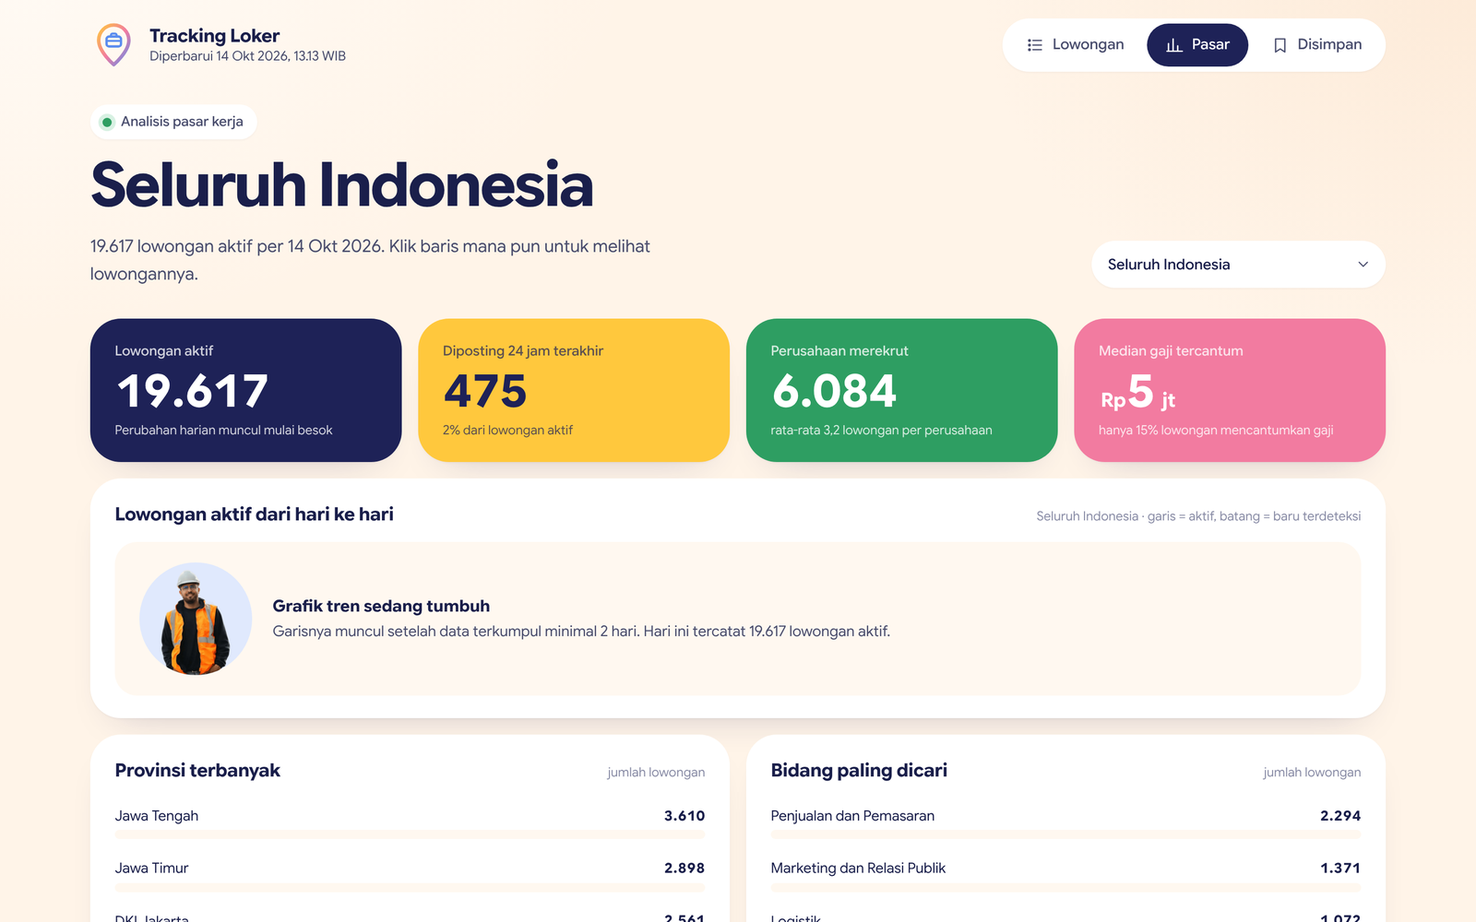
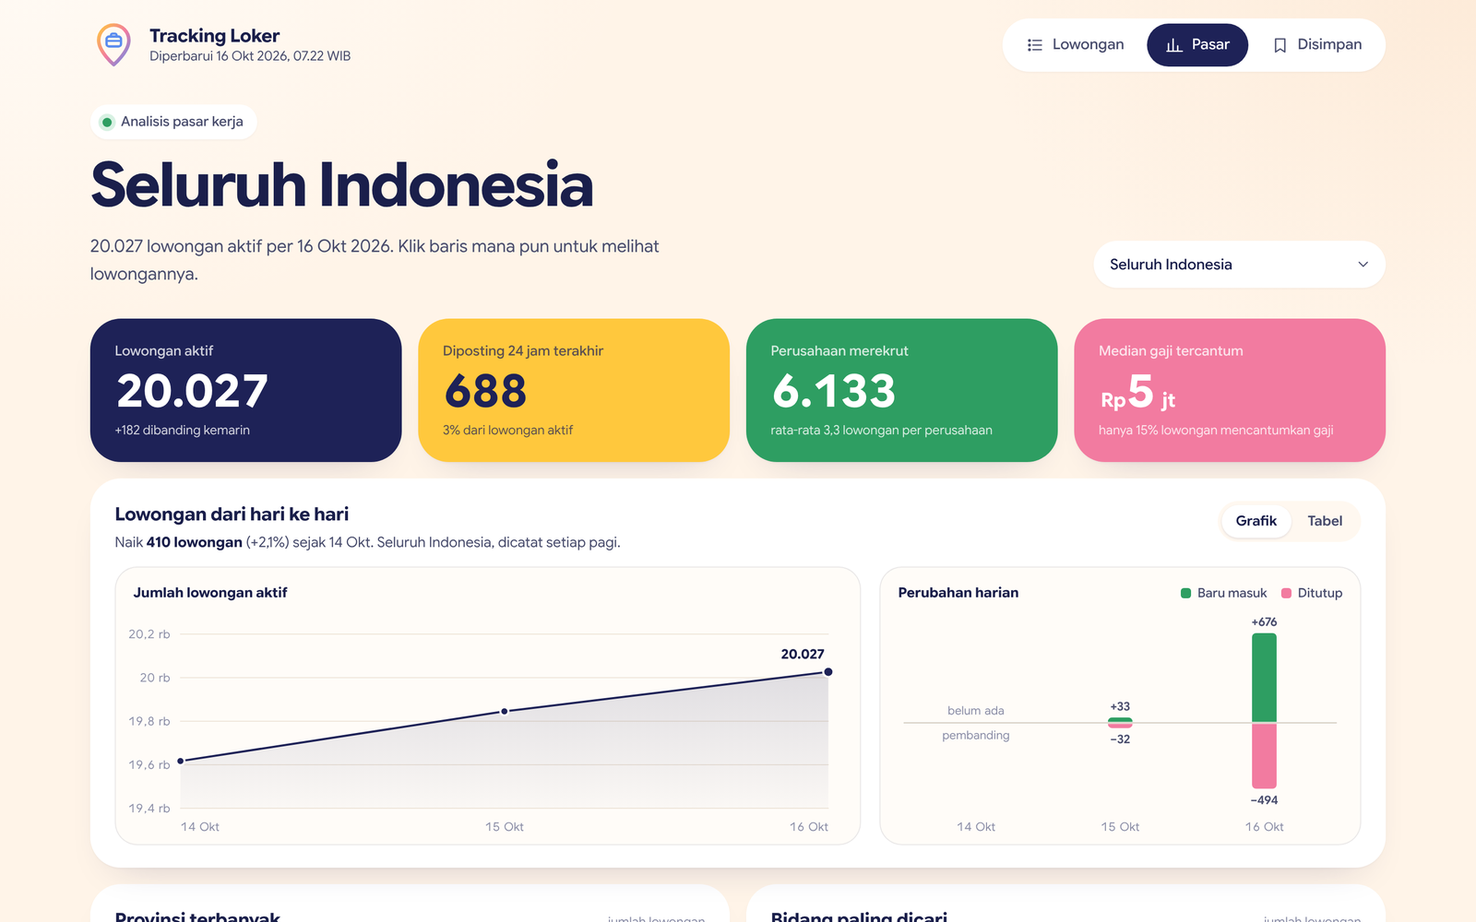
Add files via upload

diff --git a/app.js b/app.js
@@ -400,7 +400,22 @@ function renderPasar() {
     <div class="tile kpi green"><span class="kpi-label">Perusahaan merekrut</span><span class="kpi-value">${ribu(s.companies)}</span><span class="tile-sub">rata-rata ${(s.total / Math.max(1, s.companies)).toFixed(1).replace('.', ',')} lowongan per perusahaan</span></div>
     <div class="tile kpi pink"><span class="kpi-label">Median gaji tercantum</span><span class="kpi-value">${s.medianPay ? `<small>Rp</small>${juta(s.medianPay).replace(' jt', '<small> jt</small>')}` : '–'}</span><span class="tile-sub">hanya ${s.salariedPct}% lowongan mencantumkan gaji</span></div>
 
-    <div class="tile wide trend"><div class="tile-head"><span class="tile-title">Lowongan aktif dari hari ke hari</span><span class="tile-sub">Seluruh Indonesia · garis = aktif, batang = baru terdeteksi</span></div><div id="trend"></div></div>
+    <div class="tile wide trend">
+      <div class="tile-head trend-head">
+        <div><span class="tile-title">Lowongan dari hari ke hari</span><p class="trend-sum" id="trend-sum"></p></div>
+        <div class="trend-ctrl">
+        <div class="seg" id="trend-range" role="group" aria-label="Rentang waktu" hidden>
+          <button type="button" class="on" data-trend-range="30" aria-pressed="true">30 hari</button>
+          <button type="button" data-trend-range="0" aria-pressed="false">Semua</button>
+        </div>
+        <div class="seg" role="group" aria-label="Tampilan tren">
+          <button type="button" class="on" data-trend-view="chart" aria-pressed="true">Grafik</button>
+          <button type="button" data-trend-view="table" aria-pressed="false">Tabel</button>
+        </div>
+        </div>
+      </div>
+      <div id="trend"></div>
+    </div>
 
     <div class="tile" data-tone="blue"><div class="tile-head"><span class="tile-title">${scopeProv ? 'Kota/kabupaten terbanyak' : 'Provinsi terbanyak'}</span><span class="tile-sub">jumlah lowongan</span></div>${barsHTML(where)}</div>
     <div class="tile" data-tone="green"><div class="tile-head"><span class="tile-title">Bidang paling dicari</span><span class="tile-sub">jumlah lowongan</span></div>${barsHTML(fns)}</div>
@@ -453,46 +468,229 @@ function stackHTML(rows, total, kind) {
     <div class="legend">${segs.map((s) => `<button type="button" data-stack="${kind}" data-value="${esc(s.name)}"><i style="background:${s.color}"></i>${esc(s.name)} <b>${pct(s.n, total)}</b></button>`).join('')}</div>`;
 }
 
+const BULAN_PENDEK = ['Jan', 'Feb', 'Mar', 'Apr', 'Mei', 'Jun', 'Jul', 'Agu', 'Sep', 'Okt', 'Nov', 'Des'];
+const tgl = (d, year = false) => { const [y, m, dd] = d.split('-'); return `${+dd} ${BULAN_PENDEK[+m - 1]}${year ? ` ${y}` : ''}`; };
+const signed = (n) => (n > 0 ? `+${ribu(n)}` : n < 0 ? `−${ribu(-n)}` : '0');
+const C_LINE = '#1E2257';
+const C_NEW = '#2E9E62';
+const C_CLOSED = '#F27BA0';
+
+// Skala sumbu Y yang bulat: kelipatan 1, 2, 5 × 10^n, dan batas bawah/atas ikut jatuh di garis bantu.
+function yScale(min, max, count = 4) {
+  const span = Math.max(max - min, max * 0.01, 10);
+  const raw = span * 1.4 / count;
+  const mag = 10 ** Math.floor(Math.log10(raw));
+  const step = [1, 2, 5, 10].map((k) => k * mag).find((v) => v >= raw);
+  const lo = Math.floor((min - span * 0.2) / step) * step;
+  const hi = Math.ceil((max + span * 0.2) / step) * step;
+  const ticks = [];
+  for (let v = lo; v <= hi + step / 2; v += step) ticks.push(Math.round(v));
+  return { lo, hi, ticks, step };
+}
+function tickText(v, step) {
+  if (step < 10) return ribu(v);
+  const dec = step >= 1000 ? 0 : step >= 100 ? 1 : 2;
+  return `${(v / 1000).toFixed(dec).replace(/(\.\d*?)0+$/, '$1').replace(/\.$/, '').replace('.', ',')} rb`;
+}
+// Label tanggal dihitung mundur dari hari terakhir supaya tanggal terbaru selalu tampil dan jaraknya rata.
+function dateMarks(n, width) {
+  const every = Math.max(1, Math.ceil(n / Math.max(2, Math.floor(width / 64))));
+  const out = [];
+  for (let i = n - 1; i >= 0; i -= every) out.push(i);
+  return out;
+}
+
+state.trendView = 'chart';
+state.trendRange = 30;
+
 function renderTrend() {
   const box = $('#trend');
   if (!box) return;
-  const days = state.days.filter((d) => d.active);
-  if (days.length < 2) {
-    box.innerHTML = `<div class="trend-empty">${emptyArt('foto-tambang.webp', 'blue')}<div><b>Grafik tren sedang tumbuh</b>Garisnya muncul setelah data terkumpul minimal 2 hari. Hari ini tercatat ${ribu(days[0]?.active || state.all.length)} lowongan aktif.</div></div>`;
+  const all = state.days.filter((d) => d.active);
+  const sum = $('#trend-sum');
+  const ranges = $('#trend-range');
+  if (all.length < 2) {
+    if (sum) sum.textContent = 'Seluruh Indonesia';
+    if (ranges) ranges.hidden = true;
+    box.innerHTML = `<div class="trend-empty">${emptyArt('foto-tambang.webp', 'blue')}<div><b>Grafik tren sedang tumbuh</b>Garisnya muncul setelah data terkumpul minimal 2 hari. Hari ini tercatat ${ribu(all[0]?.active || state.all.length)} lowongan aktif.</div></div>`;
     return;
   }
-  const W = Math.max(280, box.clientWidth);
-  const H = 200;
-  const pad = { l: 8, r: 8, t: 22, b: 24 };
+  const long = all.length > 30;
+  if (ranges) ranges.hidden = !long;
+  const days = long && state.trendRange ? all.slice(-state.trendRange) : all;
+  const first = days[0];
+  const last = days[days.length - 1];
+  const diff = last.active - first.active;
+  const pctTxt = `${(Math.abs(diff) / first.active * 100).toFixed(1).replace('.', ',')}%`;
+  if (sum) {
+    sum.innerHTML = diff === 0
+      ? `Stabil di <b>${ribu(last.active)}</b> lowongan sejak ${tgl(first.d)}. Seluruh Indonesia, dicatat setiap pagi.`
+      : `${diff > 0 ? 'Naik' : 'Turun'} <b>${ribu(Math.abs(diff))} lowongan</b> (${diff > 0 ? '+' : '−'}${pctTxt}) sejak ${tgl(first.d)}. Seluruh Indonesia, dicatat setiap pagi.`;
+  }
+  for (const b of document.querySelectorAll('[data-trend-view]')) {
+    const on = b.dataset.trendView === state.trendView;
+    b.classList.toggle('on', on);
+    b.setAttribute('aria-pressed', on);
+  }
+  for (const b of document.querySelectorAll('[data-trend-range]')) {
+    const on = +b.dataset.trendRange === state.trendRange;
+    b.classList.toggle('on', on);
+    b.setAttribute('aria-pressed', on);
+  }
+
+  if (state.trendView === 'table') {
+    const rows = days.slice().reverse();
+    box.innerHTML = `<div class="trend-table-wrap"><div class="trend-table-scroll"><table class="trend-table">
+      <thead><tr><th>Tanggal</th><th>Lowongan aktif</th><th>Baru masuk</th><th>Ditutup</th><th>Selisih</th></tr></thead>
+      <tbody>${rows.map((d, i) => {
+        const prev = rows[i + 1] || all[all.indexOf(d) - 1];
+        return `<tr><td>${tgl(d.d, true)}</td><td>${ribu(d.active)}</td><td>${d.new == null ? '–' : `+${ribu(d.new)}`}</td><td>${d.closed == null ? '–' : `−${ribu(d.closed)}`}</td><td>${prev ? signed(d.active - prev.active) : '–'}</td></tr>`;
+      }).join('')}</tbody></table></div>
+      <p class="note">Baru masuk = lowongan yang belum ada di catatan sebelumnya. Ditutup = lowongan yang sudah hilang atau lewat batas waktu. Hari pertama belum punya pembanding.</p></div>`;
+    return;
+  }
+
+  box.innerHTML = `<div class="trend-grid">
+      <figure class="trend-panel" id="tp-line"><figcaption><span>Jumlah lowongan aktif</span></figcaption><div class="trend-plot"></div></figure>
+      <figure class="trend-panel" id="tp-bars"><figcaption><span>Perubahan harian</span>
+        <span class="legend-mini"><i style="background:${C_NEW}"></i>Baru masuk<i style="background:${C_CLOSED}"></i>Ditutup</span></figcaption><div class="trend-plot"></div></figure>
+    </div><div class="trend-tip" role="status" aria-live="polite" hidden></div>`;
+  drawLine(days, $('#tp-line .trend-plot'));
+  drawBars(days, $('#tp-bars .trend-plot'));
+}
+
+function trendTip(d, x, y, host) {
+  const tip = $('#trend .trend-tip');
+  if (!tip) return;
+  if (!d) { tip.hidden = true; return; }
+  tip.innerHTML = `<span class="tip-date">${tgl(d.d, true)}</span>
+    <span><b>${ribu(d.active)}</b> lowongan aktif</span>
+    ${d.new == null ? '<span class="tip-muted">Hari pertama pencatatan</span>'
+      : `<span><i style="background:${C_NEW}"></i>+${ribu(d.new)} baru masuk</span><span><i style="background:${C_CLOSED}"></i>−${ribu(d.closed)} ditutup</span>`}`;
+  tip.hidden = false;
+  const box = $('#trend').getBoundingClientRect();
+  const r = host.getBoundingClientRect();
+  let left = r.left - box.left + x + 16;
+  if (left + tip.offsetWidth > box.width) left = r.left - box.left + x - tip.offsetWidth - 16;
+  tip.style.left = `${Math.max(0, left)}px`;
+  tip.style.top = `${Math.max(0, r.top - box.top + y - tip.offsetHeight / 2)}px`;
+}
+
+// Satu lapisan sentuh untuk seluruh area grafik: arahkan kursor/jari ke mana saja, hari terdekat yang aktif.
+function hoverLayer(svg, host, n, W, H, indexAt, onShow, onHide) {
+  let cur = n - 1;
+  const show = (i) => {
+    cur = Math.max(0, Math.min(n - 1, i));
+    const [px, py] = onShow(cur);
+    trendTip(state.trendDays[cur], px * host.clientWidth / W, py * host.clientHeight / H, host);
+  };
+  const hide = () => { onHide(); trendTip(null); };
+  svg.addEventListener('pointermove', (e) => {
+    const r = svg.getBoundingClientRect();
+    show(indexAt((e.clientX - r.left) * W / r.width));
+  });
+  svg.addEventListener('pointerdown', (e) => {
+    const r = svg.getBoundingClientRect();
+    show(indexAt((e.clientX - r.left) * W / r.width));
+  });
+  svg.addEventListener('pointerleave', hide);
+  svg.addEventListener('focus', () => show(cur));
+  svg.addEventListener('blur', hide);
+  svg.addEventListener('keydown', (e) => {
+    if (e.key === 'ArrowLeft') { e.preventDefault(); show(cur - 1); }
+    if (e.key === 'ArrowRight') { e.preventDefault(); show(cur + 1); }
+    if (e.key === 'Escape') hide();
+  });
+}
+
+function drawLine(days, host) {
+  state.trendDays = days;
+  const W = Math.max(260, host.clientWidth);
+  const H = 230;
+  const pad = { l: 50, r: 18, t: 30, b: 30 };
   const vals = days.map((d) => d.active);
-  const lo = Math.min(...vals) * 0.97;
-  const hi = Math.max(...vals) * 1.01;
-  const step = (W - pad.l - pad.r) / (days.length - 1);
-  const x = (i) => pad.l + i * step;
-  const y = (v) => pad.t + (1 - (v - lo) / (hi - lo || 1)) * (H - pad.t - pad.b);
-  const news = days.map((d) => d.new || 0);
-  const maxNew = Math.max(1, ...news);
-  const barW = Math.max(3, Math.min(18, step * 0.5));
-  const line = days.map((d, i) => `${i ? 'L' : 'M'}${x(i).toFixed(1)},${y(d.active).toFixed(1)}`).join('');
-  const area = `${line}L${x(days.length - 1).toFixed(1)},${H - pad.b}L${x(0).toFixed(1)},${H - pad.b}Z`;
-  const bars = days.map((d, i) => {
-    const h = ((d.new || 0) / maxNew) * (H - pad.t - pad.b) * 0.35;
-    return `<rect x="${(x(i) - barW / 2).toFixed(1)}" y="${(H - pad.b - h).toFixed(1)}" width="${barW.toFixed(1)}" height="${h.toFixed(1)}" rx="3" fill="#FFC83D"/>`;
-  }).join('');
-  const hits = days.map((d, i) => `<rect x="${(x(i) - step / 2).toFixed(1)}" y="0" width="${step.toFixed(1)}" height="${H}" fill="transparent"><title>${d.d.split('-').reverse().join('-')}: ${ribu(d.active)} aktif${d.new != null ? `, ${ribu(d.new)} baru, ${ribu(d.closed)} ditutup` : ''}</title></rect>`).join('');
-  const lastI = days.length - 1;
-  const fmt = (d) => { const [, m, dd] = d.split('-'); return `${+dd} ${['Jan', 'Feb', 'Mar', 'Apr', 'Mei', 'Jun', 'Jul', 'Agu', 'Sep', 'Okt', 'Nov', 'Des'][+m - 1]}`; };
-  box.innerHTML = `<svg viewBox="0 0 ${W} ${H}" width="${W}" height="${H}" role="img" aria-label="Grafik lowongan aktif per hari">
-    <defs><linearGradient id="g-area" x1="0" x2="0" y1="0" y2="1"><stop offset="0" stop-color="#1E2257" stop-opacity=".12"/><stop offset="1" stop-color="#1E2257" stop-opacity="0"/></linearGradient></defs>
-    ${bars}
-    <path d="${area}" fill="url(#g-area)" stroke="none"/>
-    <path d="${line}" fill="none" stroke="#1E2257" stroke-width="2.2"/>
-    <circle cx="${x(lastI)}" cy="${y(vals[lastI])}" r="5" fill="#1E2257" stroke="#fff" stroke-width="2.5"/>
-    <text class="axis" x="${pad.l}" y="${H - 6}">${fmt(days[0].d)}</text>
-    <text class="axis" x="${W - pad.r}" y="${H - 6}" text-anchor="end">${fmt(days[lastI].d)}</text>
-    <text class="axis" x="${x(lastI) - 10}" y="${vals[lastI - 1] > vals[lastI] ? y(vals[lastI]) + 20 : Math.max(12, y(vals[lastI]) - 12)}" text-anchor="end" style="fill:#1E2257;font-weight:600">${ribu(vals[lastI])}</text>
-    ${hits}
+  const { lo, hi, ticks, step } = yScale(Math.min(...vals), Math.max(...vals));
+  const n = days.length;
+  const x = (i) => pad.l + i * (W - pad.l - pad.r) / (n - 1);
+  const y = (v) => pad.t + (1 - (v - lo) / (hi - lo)) * (H - pad.t - pad.b);
+  const line = vals.map((v, i) => `${i ? 'L' : 'M'}${x(i).toFixed(1)},${y(v).toFixed(1)}`).join('');
+  const area = `${line}L${x(n - 1).toFixed(1)},${y(lo).toFixed(1)}L${x(0).toFixed(1)},${y(lo).toFixed(1)}Z`;
+  const showDots = n <= 10;
+  const lx = x(n - 1);
+  const ly = y(vals[n - 1]);
+  const dropping = n > 1 && vals[n - 1] < vals[n - 2];
+  const marks = dateMarks(n, W - pad.l - pad.r);
+  host.innerHTML = `<svg viewBox="0 0 ${W} ${H}" width="${W}" height="${H}" tabindex="0" role="img" aria-label="Grafik garis jumlah lowongan aktif per hari dari ${tgl(days[0].d)} sampai ${tgl(days[n - 1].d)}. Gunakan panah kiri dan kanan untuk melihat angka tiap hari.">
+    <defs><linearGradient id="trend-wash" x1="0" y1="0" x2="0" y2="1"><stop offset="0" stop-color="${C_LINE}" stop-opacity=".14"/><stop offset="1" stop-color="${C_LINE}" stop-opacity=".02"/></linearGradient></defs>
+    ${ticks.map((t) => `<line x1="${pad.l}" x2="${W - pad.r}" y1="${y(t).toFixed(1)}" y2="${y(t).toFixed(1)}" class="grid"/><text class="axis" x="${pad.l - 10}" y="${(y(t) + 4).toFixed(1)}" text-anchor="end">${tickText(t, step)}</text>`).join('')}
+    ${marks.map((i) => `<text class="axis" x="${x(i).toFixed(1)}" y="${H - 8}" text-anchor="${i === 0 ? 'start' : i === n - 1 ? 'end' : 'middle'}">${tgl(days[i].d)}</text>`).join('')}
+    <path d="${area}" fill="url(#trend-wash)"/>
+    <path d="${line}" fill="none" stroke="${C_LINE}" stroke-width="2" stroke-linejoin="round" stroke-linecap="round"/>
+    <line class="cross" x1="0" x2="0" y1="${pad.t - 10}" y2="${H - pad.b}" visibility="hidden"/>
+    ${vals.map((v, i) => (showDots || i === n - 1) ? `<circle cx="${x(i).toFixed(1)}" cy="${y(v).toFixed(1)}" r="${i === n - 1 ? 5 : 4}" fill="${C_LINE}" stroke="#FFFCF8" stroke-width="2"/>` : '').join('')}
+    <text class="val halo" x="${(lx - 4).toFixed(1)}" y="${(dropping ? ly + 22 : ly - 13).toFixed(1)}" text-anchor="end">${ribu(vals[n - 1])}</text>
+    <circle class="hot" r="7" fill="#FFFCF8" stroke="${C_LINE}" stroke-width="2.5" visibility="hidden"/>
   </svg>`;
+  const svg = host.querySelector('svg');
+  const cross = svg.querySelector('.cross');
+  const hot = svg.querySelector('.hot');
+  const stepX = (W - pad.l - pad.r) / (n - 1);
+  hoverLayer(svg, host, n, W, H, (px) => Math.round((px - pad.l) / stepX), (i) => {
+    const cx = x(i);
+    const cy = y(vals[i]);
+    cross.setAttribute('x1', cx); cross.setAttribute('x2', cx); cross.setAttribute('visibility', 'visible');
+    hot.setAttribute('cx', cx); hot.setAttribute('cy', cy); hot.setAttribute('visibility', 'visible');
+    return [cx, cy];
+  }, () => { cross.setAttribute('visibility', 'hidden'); hot.setAttribute('visibility', 'hidden'); });
+}
+
+function drawBars(days, host) {
+  const W = Math.max(240, host.clientWidth);
+  const H = 230;
+  const pad = { l: 10, r: 10, t: 30, b: 30 };
+  const n = days.length;
+  const label = n <= 7;
+  const up = Math.max(1, ...days.map((d) => d.new || 0));
+  const down = Math.max(1, ...days.map((d) => d.closed || 0));
+  const plotH = H - pad.t - pad.b - (label ? 20 : 4);
+  const zero = pad.t + plotH * up / (up + down);
+  const scale = plotH / (up + down);
+  const band = (W - pad.l - pad.r) / n;
+  const bw = band >= 8 ? Math.min(24, band * 0.5) : Math.max(1, band - 1);
+  const gap = 2;
+  const r = Math.min(4, bw / 2);
+  const cx = (i) => pad.l + band * (i + 0.5);
+  const cols = days.map((d, i) => {
+    const c = cx(i);
+    if (d.new == null) {
+      return band >= 72 ? `<text class="axis" x="${c.toFixed(1)}" y="${(zero - 8).toFixed(1)}" text-anchor="middle">belum ada</text><text class="axis" x="${c.toFixed(1)}" y="${(zero + 16).toFixed(1)}" text-anchor="middle">pembanding</text>` : '';
+    }
+    const hu = Math.max(1.5, d.new * scale);
+    const hd = Math.max(1.5, d.closed * scale);
+    const rr = Math.min(r, hu, hd);
+    // ujung data membulat, sisi yang menempel garis nol tetap rata
+    const top = zero - gap / 2;
+    const bot = zero + gap / 2;
+    const l = c - bw / 2;
+    const upPath = `M${l},${top}V${top - hu + rr}a${rr},${rr} 0 0 1 ${rr},-${rr}H${l + bw - rr}a${rr},${rr} 0 0 1 ${rr},${rr}V${top}Z`;
+    const dnPath = `M${l},${bot}V${bot + hd - rr}a${rr},${rr} 0 0 0 ${rr},${rr}H${l + bw - rr}a${rr},${rr} 0 0 0 ${rr},-${rr}V${bot}Z`;
+    return `<g class="col" data-i="${i}"><path d="${upPath}" fill="${C_NEW}"/><path d="${dnPath}" fill="${C_CLOSED}"/>
+      ${label ? `<text class="val sm" x="${c.toFixed(1)}" y="${(top - hu - 7).toFixed(1)}" text-anchor="middle">+${ribu(d.new)}</text>
+      <text class="val sm" x="${c.toFixed(1)}" y="${(bot + hd + 15).toFixed(1)}" text-anchor="middle">−${ribu(d.closed)}</text>` : ''}</g>`;
+  }).join('');
+  const marks = dateMarks(n, W - pad.l - pad.r);
+  host.innerHTML = `<svg viewBox="0 0 ${W} ${H}" width="${W}" height="${H}" tabindex="0" role="img" aria-label="Grafik batang lowongan baru masuk (ke atas) dan ditutup (ke bawah) per hari. Gunakan panah kiri dan kanan untuk melihat angka tiap hari.">
+    <rect class="band-hi" x="0" y="${pad.t - 12}" width="${band.toFixed(1)}" height="${H - pad.t - pad.b + 12}" rx="8" visibility="hidden"/>
+    <line x1="${pad.l}" x2="${W - pad.r}" y1="${zero}" y2="${zero}" class="base"/>
+    ${cols}
+    ${marks.map((i) => `<text class="axis" x="${cx(i).toFixed(1)}" y="${H - 8}" text-anchor="${n > 7 && i === n - 1 ? 'end' : 'middle'}">${tgl(days[i].d)}</text>`).join('')}
+  </svg>`;
+  const svg = host.querySelector('svg');
+  const hi = svg.querySelector('.band-hi');
+  hoverLayer(svg, host, n, W, H, (px) => Math.floor((px - pad.l) / band), (i) => {
+    hi.setAttribute('x', (cx(i) - band / 2).toFixed(1)); hi.setAttribute('visibility', 'visible');
+    return [cx(i), zero];
+  }, () => hi.setAttribute('visibility', 'hidden'));
 }
 
 // ---------------------------------------------------------------- simpanan
@@ -787,6 +985,10 @@ function bindEvents() {
     const unset = t.closest('[data-unset]');
     if (unset) { setFilters($('#active-chips')._patches[+unset.dataset.unset], false); return; }
     if (t.closest('[data-reset]')) { state.f = { ...EMPTY_FILTERS, types: [] }; apply(false); return; }
+    const tv = t.closest('[data-trend-view]');
+    if (tv) { state.trendView = tv.dataset.trendView; renderTrend(); return; }
+    const tr = t.closest('[data-trend-range]');
+    if (tr) { state.trendRange = +tr.dataset.trendRange; renderTrend(); return; }
     const mood = t.closest('[data-mood]');
     if (mood) {
       state.f = { ...EMPTY_FILTERS, types: [], q: state.f.q, jur: state.f.jur, prov: state.f.prov, city: state.f.city, ...JSON.parse(mood.dataset.mood) };

diff --git a/style.css b/style.css
@@ -399,8 +399,51 @@ svg { width: 20px; height: 20px; flex-shrink: 0; fill: none; stroke: currentColo
 .legend i { width: 10px; height: 10px; border-radius: 3px; }
 .legend b { font-weight: 700; color: var(--ink); font-variant-numeric: tabular-nums; }
 
-.trend svg { width: 100%; height: 200px; display: block; overflow: visible; stroke: none; }
-.trend .axis { font-size: 11px; fill: var(--ink-3); stroke: none; }
+.trend { position: relative; }
+.trend-head { align-items: flex-start; }
+.trend-sum { margin-top: 4px; font-size: 14px; color: var(--ink-2); }
+.trend-sum b { color: var(--ink); }
+.trend-ctrl { display: flex; flex-wrap: wrap; gap: 8px; }
+.seg[hidden] { display: none; }
+.seg { display: inline-flex; padding: 4px; gap: 2px; border-radius: 999px; background: var(--cream); }
+.seg button { border: 0; background: transparent; height: 32px; padding: 0 14px; border-radius: 999px; font-size: 13.5px; font-weight: 600; color: var(--ink-2); cursor: pointer; }
+.seg button.on { background: var(--card); color: var(--ink); box-shadow: 0 1px 2px rgba(30, 34, 87, .12); }
+.trend-grid { display: grid; grid-template-columns: minmax(0, 1.55fr) minmax(0, 1fr); gap: 18px; }
+.trend-panel { margin: 0; padding: 14px 14px 6px; border-radius: 22px; background: #FFFCF8; box-shadow: inset 0 0 0 1px var(--line); min-width: 0; }
+.trend-panel figcaption { display: flex; flex-wrap: wrap; align-items: center; justify-content: space-between; gap: 6px 14px; padding: 2px 4px 0; font-size: 13.5px; font-weight: 700; color: var(--ink); }
+.legend-mini { display: inline-flex; align-items: center; gap: 6px; font-size: 12.5px; font-weight: 500; color: var(--ink-2); }
+.legend-mini i { width: 10px; height: 10px; border-radius: 3px; display: inline-block; }
+.legend-mini i ~ i { margin-left: 8px; }
+.trend-plot { width: 100%; }
+.trend svg { width: 100%; height: auto; display: block; overflow: visible; stroke: none; }
+.trend svg:focus { outline: none; }
+.trend svg:focus-visible { outline: 2.5px solid var(--blue); outline-offset: 2px; border-radius: 8px; }
+.trend .axis { font-size: 11.5px; fill: var(--ink-3); stroke: none; font-variant-numeric: tabular-nums; }
+.trend .val { font-size: 13px; font-weight: 700; fill: var(--ink); }
+.trend .halo { paint-order: stroke; stroke: #FFFCF8; stroke-width: 4px; stroke-linejoin: round; }
+.trend .band-hi { fill: rgba(30, 34, 87, .05); }
+.trend .val.sm { font-size: 11.5px; font-weight: 600; fill: var(--ink-2); }
+.trend .grid { stroke: #EFE6DA; stroke-width: 1; }
+.trend .base { stroke: #CFC6BB; stroke-width: 1; }
+.trend .cross { stroke: #B9B2C8; stroke-width: 1; }
+.trend-tip {
+  position: absolute; z-index: 5; pointer-events: none; display: grid; gap: 3px; min-width: 170px;
+  padding: 10px 12px; border-radius: 14px; background: var(--card); box-shadow: 0 12px 30px -10px rgba(30, 34, 87, .35), 0 0 0 1px var(--line);
+  font-size: 12.5px; color: var(--ink-2);
+}
+.trend-tip b { font-size: 16px; color: var(--ink); }
+.trend-tip .tip-date { font-weight: 600; color: var(--ink-3); font-size: 12px; }
+.trend-tip .tip-muted { color: var(--ink-3); }
+.trend-tip span { display: flex; align-items: center; gap: 6px; }
+.trend-tip i { width: 12px; height: 3px; border-radius: 2px; display: inline-block; }
+.trend-table-wrap { display: grid; gap: 10px; }
+.trend-table-scroll { max-height: 420px; overflow: auto; }
+.trend-table thead th { position: sticky; top: 0; background: var(--card); }
+.trend-table { width: 100%; border-collapse: collapse; font-size: 14px; }
+.trend-table th { text-align: right; font-size: 12.5px; font-weight: 600; color: var(--ink-3); padding: 8px 10px; border-bottom: 1px solid var(--line-2); white-space: nowrap; }
+.trend-table td { text-align: right; padding: 10px; border-bottom: 1px solid var(--line); font-variant-numeric: tabular-nums; white-space: nowrap; }
+.trend-table th:first-child, .trend-table td:first-child { text-align: left; }
+.trend-table td:first-child { font-weight: 600; color: var(--ink); }
 .trend-empty { display: grid; grid-template-columns: auto minmax(0, 1fr); gap: 20px; align-items: center; min-height: 150px; border-radius: 22px; background: var(--cream); color: var(--ink-2); font-size: 14.5px; padding: 16px 24px; }
 .trend-empty .empty-art { width: 110px; height: 110px; margin: 0; }
 .trend-empty b { display: block; color: var(--ink); font-size: 16px; margin-bottom: 2px; }
@@ -539,6 +582,8 @@ svg { width: 20px; height: 20px; flex-shrink: 0; fill: none; stroke: currentColo
   .pasar-head { padding-top: 18px; }
   .pasar-tools, .pasar-tools .select { width: 100%; }
   .trend-empty { grid-template-columns: 1fr; justify-items: center; text-align: center; }
+  .trend-grid { grid-template-columns: minmax(0, 1fr); gap: 12px; }
+  .trend-panel { padding: 12px 8px 4px; }
 
   .drawer { top: auto; left: 0; right: 0; bottom: 0; width: 100%; max-height: 92vh; border-radius: 28px 28px 0 0; animation: rise .28s cubic-bezier(.2, .8, .2, 1); }
   @keyframes rise { from { transform: translateY(60px); opacity: 0; } }

diff --git a/README.md b/README.md
@@ -48,7 +48,7 @@ Ketik posisi, nama perusahaan, atau kota, dan hasilnya berubah saat mengetik. Sa
 Buka satu lowongan untuk melihat gaji, lokasi, syarat pendidikan, bidang, industri, tanggal posting, batas tayang, dan platform asalnya, lalu lamar lewat halaman aslinya dengan satu ketukan. Setiap lowongan juga punya tautan sendiri yang bisa dikirim ke teman.
 
 ### Pasar kerja dalam satu layar
-Halaman **Pasar** merangkum lowongan aktif, lowongan baru dalam 24 jam, jumlah perusahaan yang merekrut, dan median gaji yang dicantumkan. Lihat provinsi dan bidang dengan lowongan terbanyak, perusahaan yang paling aktif merekrut, median gaji per bidang, porsi syarat pendidikan dan tipe kerja, serta tren jumlah lowongan dari hari ke hari. Semua bisa dipersempit ke satu provinsi, dan setiap baris bisa diklik untuk langsung melihat lowongannya.
+Halaman **Pasar** merangkum lowongan aktif, lowongan baru dalam 24 jam, jumlah perusahaan yang merekrut, dan median gaji yang dicantumkan. Lihat provinsi dan bidang dengan lowongan terbanyak, perusahaan yang paling aktif merekrut, median gaji per bidang, porsi syarat pendidikan dan tipe kerja, serta tren harian: jumlah lowongan aktif, berapa yang baru masuk, dan berapa yang ditutup, bisa dilihat sebagai grafik atau tabel. Angka dan peringkatnya bisa dipersempit ke satu provinsi, dan setiap baris bisa diklik untuk langsung melihat lowongannya.
 
 ![Halaman pasar kerja Tracking Loker](layar-pasar.png)
 
